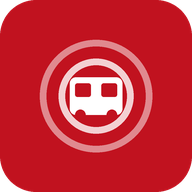
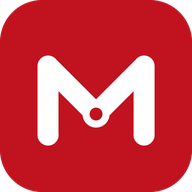
Nuovo marchio e icone animate
Sostituisce il bus nei cerchi con una M di transito e una fermata centrale, aggiornando anche le icone PWA e l'onboarding. Aggiunge micro-animazioni CSS ispirate ad animate-ui, disattivate con prefers-reduced-motion.

🤖 Generated with Codebuff

diff --git a/index.html b/index.html
@@ -75,7 +75,8 @@
   /* Niente banda bianca: i comandi galleggiano sopra la mappa. */
   .barra{position:fixed;top:0;left:0;right:0;height:calc(var(--barra) + env(safe-area-inset-top,0px));padding:env(safe-area-inset-top,0px) 10px 0;display:flex;align-items:center;gap:8px;z-index:1000;pointer-events:none;}
   .barra > *{pointer-events:auto;}
-  .marchio{font-size:15px;font-weight:700;letter-spacing:-.3px;white-space:nowrap;padding:9px 14px;border-radius:999px;background:rgba(255,255,255,.94);-webkit-backdrop-filter:blur(14px);backdrop-filter:blur(14px);box-shadow:var(--ombra);}
+  .marchio{display:inline-flex;align-items:center;gap:8px;font-size:15px;font-weight:700;letter-spacing:-.3px;white-space:nowrap;padding:7px 13px 7px 7px;border-radius:999px;background:rgba(255,255,255,.94);-webkit-backdrop-filter:blur(14px);backdrop-filter:blur(14px);box-shadow:var(--ombra);}
+  .marchio-simbolo{width:26px;height:26px;border-radius:8px;flex:0 0 auto;}
   .barra.torna .ico-indietro{display:block;}
   .barra.torna .ico-menu{display:none;}
   .barra.torna .marchio{display:none;}
@@ -83,6 +84,37 @@
   .icona{width:44px;height:44px;border:0;background:transparent;border-radius:14px;display:flex;align-items:center;justify-content:center;cursor:pointer;color:var(--testo);}
   .barra .icona{background:rgba(255,255,255,.94);-webkit-backdrop-filter:blur(14px);backdrop-filter:blur(14px);box-shadow:var(--ombra);}
   .icona:active{background:#F4F4F4;}
+
+  /* ---------- Icone animate (microinterazioni) ---------- */
+  /*animate-ui: scatto morbido su hover e pressione, mai un loop. Le regole
+     sono per nome Lucide, così non serve cambiare il generatore delle icone. */
+  .lucide,.icona > svg,.mappa-btn > svg,.ico-menu path,.ico-indietro path{transition:transform .26s cubic-bezier(.34,1.56,.64,1),opacity .18s ease;}
+  .ico-menu path{transform-box:fill-box;transform-origin:center;}
+  #btn-menu[aria-expanded="true"] .ico-menu path:nth-child(1){transform:translateY(6px) rotate(45deg);}
+  #btn-menu[aria-expanded="true"] .ico-menu path:nth-child(2){opacity:0;transform:scaleX(.2);}
+  #btn-menu[aria-expanded="true"] .ico-menu path:nth-child(3){transform:translateY(-6px) rotate(-45deg);}
+  @media (hover:hover) and (pointer:fine){
+    button:hover > svg,button:hover > .lucide,summary:hover .lucide{transform:translateY(-1px) scale(1.06);}
+    button:hover > .ico-indietro{transform:translateX(-2px);}
+    button:hover .lucide-arrow-up-down{transform:rotate(180deg) scale(1.04);}
+    button:hover .lucide-chevron-down{transform:translateY(2px);}
+    button:hover .lucide-chevron-right{transform:translateX(2px);}
+    button:hover .lucide-plus{transform:rotate(90deg);}
+    button:hover .lucide-pencil{transform:rotate(-8deg);}
+    button:hover .lucide-refresh-cw{transform:rotate(90deg);}
+    button:hover .lucide-x{transform:rotate(90deg);}
+    button:hover .lucide-navigation{transform:translate(1px,-1px) rotate(-8deg);}
+    button:hover .lucide-bell,button:hover .lucide-bell-off{animation:icona-suona .55s ease;}
+    #btn-geo:hover > svg{animation:icona-punto .7s ease;}
+  }
+  button:active > svg,button:active > .lucide{transform:scale(.9);}
+  @keyframes icona-suona{0%,100%{transform:rotate(0);}20%{transform:rotate(12deg);}45%{transform:rotate(-9deg);}70%{transform:rotate(4deg);}}
+  @keyframes icona-punto{0%,100%{transform:scale(1);}45%{transform:scale(1.18);}}
+  @media (prefers-reduced-motion: reduce){
+    .lucide,.icona > svg,.mappa-btn > svg,.ico-menu path,.ico-indietro path{transition:none !important;animation:none !important;}
+    #btn-menu[aria-expanded="true"] .ico-menu path{transform:none !important;opacity:1 !important;}
+    button:hover > svg,button:hover > .lucide,button:active > svg,button:active > .lucide{transform:none !important;}
+  }
   .barra .spazio{flex:1;}
   .pill-offline{font-size:11px;font-weight:600;color:var(--testo-2);background:#F2F2F2;border-radius:999px;padding:4px 10px;}
 
@@ -511,7 +543,8 @@
   .ob-num{font-size:12px;font-weight:700;color:var(--rosso);letter-spacing:.6px;}
   .ob-titolo{font-size:26px;font-weight:800;letter-spacing:-.7px;line-height:1.15;margin:0;}
   .ob-testo{font-size:14px;color:var(--testo-2);margin:0;line-height:1.5;}
-  .ob-marchio{position:absolute;top:calc(20px + env(safe-area-inset-top,0px));left:20px;font-size:15px;font-weight:800;letter-spacing:-.3px;}
+  .ob-marchio{position:absolute;top:calc(20px + env(safe-area-inset-top,0px));left:20px;display:flex;align-items:center;gap:7px;font-size:15px;font-weight:800;letter-spacing:-.3px;}
+  .ob-marchio img{width:22px;height:22px;border-radius:6px;}
   .onboarding-piede{display:flex;align-items:center;justify-content:space-between;gap:10px;max-width:420px;margin:0 auto;width:100%;}
   .ob-punti{display:flex;gap:6px;}
   .ob-punto{width:7px;height:7px;border-radius:50%;background:var(--bordo-2);}
@@ -568,10 +601,10 @@
 <header class="barra" id="barra">
   <!-- Un solo tasto: freccia quando c'è un percorso da chiudere, hamburger in home. -->
   <button class="icona" id="btn-menu" aria-label="Apri il menu" aria-expanded="false" aria-controls="drawer">
-    <svg class="ico-menu" width="20" height="20" viewBox="0 0 24 24" fill="none" stroke="currentColor" stroke-width="1.8" stroke-linecap="round" aria-hidden="true"><path d="M4 6h16M4 12h16M4 18h16"/></svg>
+    <svg class="ico-menu" width="20" height="20" viewBox="0 0 24 24" fill="none" stroke="currentColor" stroke-width="1.8" stroke-linecap="round" aria-hidden="true"><path d="M4 6h16"/><path d="M4 12h16"/><path d="M4 18h16"/></svg>
     <svg class="ico-indietro" width="20" height="20" viewBox="0 0 24 24" fill="none" stroke="currentColor" stroke-width="1.8" stroke-linecap="round" stroke-linejoin="round" aria-hidden="true"><path d="M19 12H5"/><path d="m12 19-7-7 7-7"/></svg>
   </button>
-  <span class="marchio">Muovi Bologna</span>
+  <span class="marchio"><img class="marchio-simbolo" src="./icons/marchio.svg" alt="" width="26" height="26"><span>Muovi Bologna</span></span>
   <span class="spazio"></span>
   <!-- Con un percorso aperto a sinistra c'è la freccia: il menu resta
        raggiungibile da qui, così privacy e info non spariscono. -->
@@ -640,7 +673,7 @@
 </div>
 
 <div class="onboarding" id="onboarding" hidden role="dialog" aria-modal="true" aria-label="Come funziona Muovi Bologna">
-  <div class="ob-marchio">Muovi Bologna</div>
+  <div class="ob-marchio"><img src="./icons/marchio.svg" alt="" width="22" height="22"><span>Muovi Bologna</span></div>
   <div class="ob-slide" data-slide="0">
     <span class="ob-ico" aria-hidden="true"><svg width="26" height="26" viewBox="0 0 24 24" fill="none" stroke="currentColor" stroke-width="1.8" stroke-linecap="round" stroke-linejoin="round"><path d="M20 10c0 4.993-5.539 10.193-7.399 11.799a1 1 0 0 1-1.202 0C9.539 20.193 4 14.993 4 10a8 8 0 0 1 16 0"/><circle cx="12" cy="10" r="3"/></svg></span>
     <span class="ob-num">1 di 3</span>

diff --git a/sw.js b/sw.js
@@ -3,8 +3,8 @@
 // Le richieste verso altri domini (mappa, relay degli orari live) non vengono intercettate:
 // gli orari in tempo reale non devono mai arrivare dalla cache.
 
-const CACHE_STATICA = 'muovi-bologna-static-v184';
-const CACHE_DATI = 'muovi-bologna-data-v184';
+const CACHE_STATICA = 'muovi-bologna-static-v185';
+const CACHE_DATI = 'muovi-bologna-data-v185';
 
 const ASSET_STATICI = [
   './',
@@ -25,6 +25,7 @@ const ASSET_STATICI = [
   './legale.css',
   './icons/icon-192.svg',
   './icons/icon-512.svg',
+  './icons/marchio.svg',
   './icons/icon-192.png',
   './icons/icon-512.png',
   './icons/icon-maskable-192.png',

diff --git a/CHANGELOG.md b/CHANGELOG.md
@@ -4,6 +4,7 @@ Tutte le modifiche importanti dell'app. Formato basato su [Keep a Changelog](htt
 
 ## [Non pubblicato]
 
+- **Nuovo marchio e icone animate**: logo a “M” di transito con una fermata centrale, al posto del bus nei cerchi. Le icone hanno micro-animazioni ispirate ad animate-ui (menu che diventa X, frecce, scambio, campanella, refresh), disattivate con `prefers-reduced-motion`.
 - **Pulizia delle vecchie preferenze dei criteri**: all'avvio l'app rimuove da `localStorage` `tperzc_criterio_v1`, `tperzc_criterio_default_v1`, `tperzc_criterio_scelte_v1`, `tperzc_criterio_proposto_v1` e le varianti senza prefisso. Non sono più usate e non compaiono nella cookie policy; la pulizia non tocca le preferenze attuali.
 - **Overlay delle zone a bersaglio**: l'Area Urbana di Bologna non è più una serie di macchie separate. La 500 è un disco centrale, le neutre 501–509 una corona continua divisa in spicchi nella direzione delle loro fermate; le extraurbane restano cerchi locali. I raggruppamenti delle fermate si nascondono mentre l'overlay è acceso, così le aree e i numeri restano leggibili.
 - **Ricerca luoghi e indirizzi come Maps**: prima si cerca in un riquadro attorno a partenza, GPS o centro mappa e solo se non c'è nulla si allarga all'area TPER (Bologna, Porretta, Vignola, Imola, Ferrara). I risultati sono deduplicati, riordinati per pertinenza e distanza e mostrano metri o chilometri; per le categorie («farmacia», «bar», «parco») vincono i più vicini. Le fermate che contengono la parola ma stanno dall'altra parte della regione non occupano più i primi posti. Cache indirizzi portata a `v2`.

diff --git a/README.md b/README.md
@@ -48,6 +48,7 @@ tper-zone-calc/
 │   ├── icon-maskable-192.png / -512.png       # Icone maskable Android
 │   ├── apple-touch-icon.png                   # Icona iOS 180×180
 │   ├── icon-192.svg / icon-512.svg            # Sorgenti vettoriali
+│   ├── marchio.svg                            # Marchio compatto per barra e onboarding
 │   └── icon-maskable-192.svg / -512.svg
 ├── data/
 │   ├── fermate.json                # 9.634 fermate: bus reali + 42 stazioni ferroviarie (tutte le fermate delle linee Vignola, Porretta e Pianoro)
